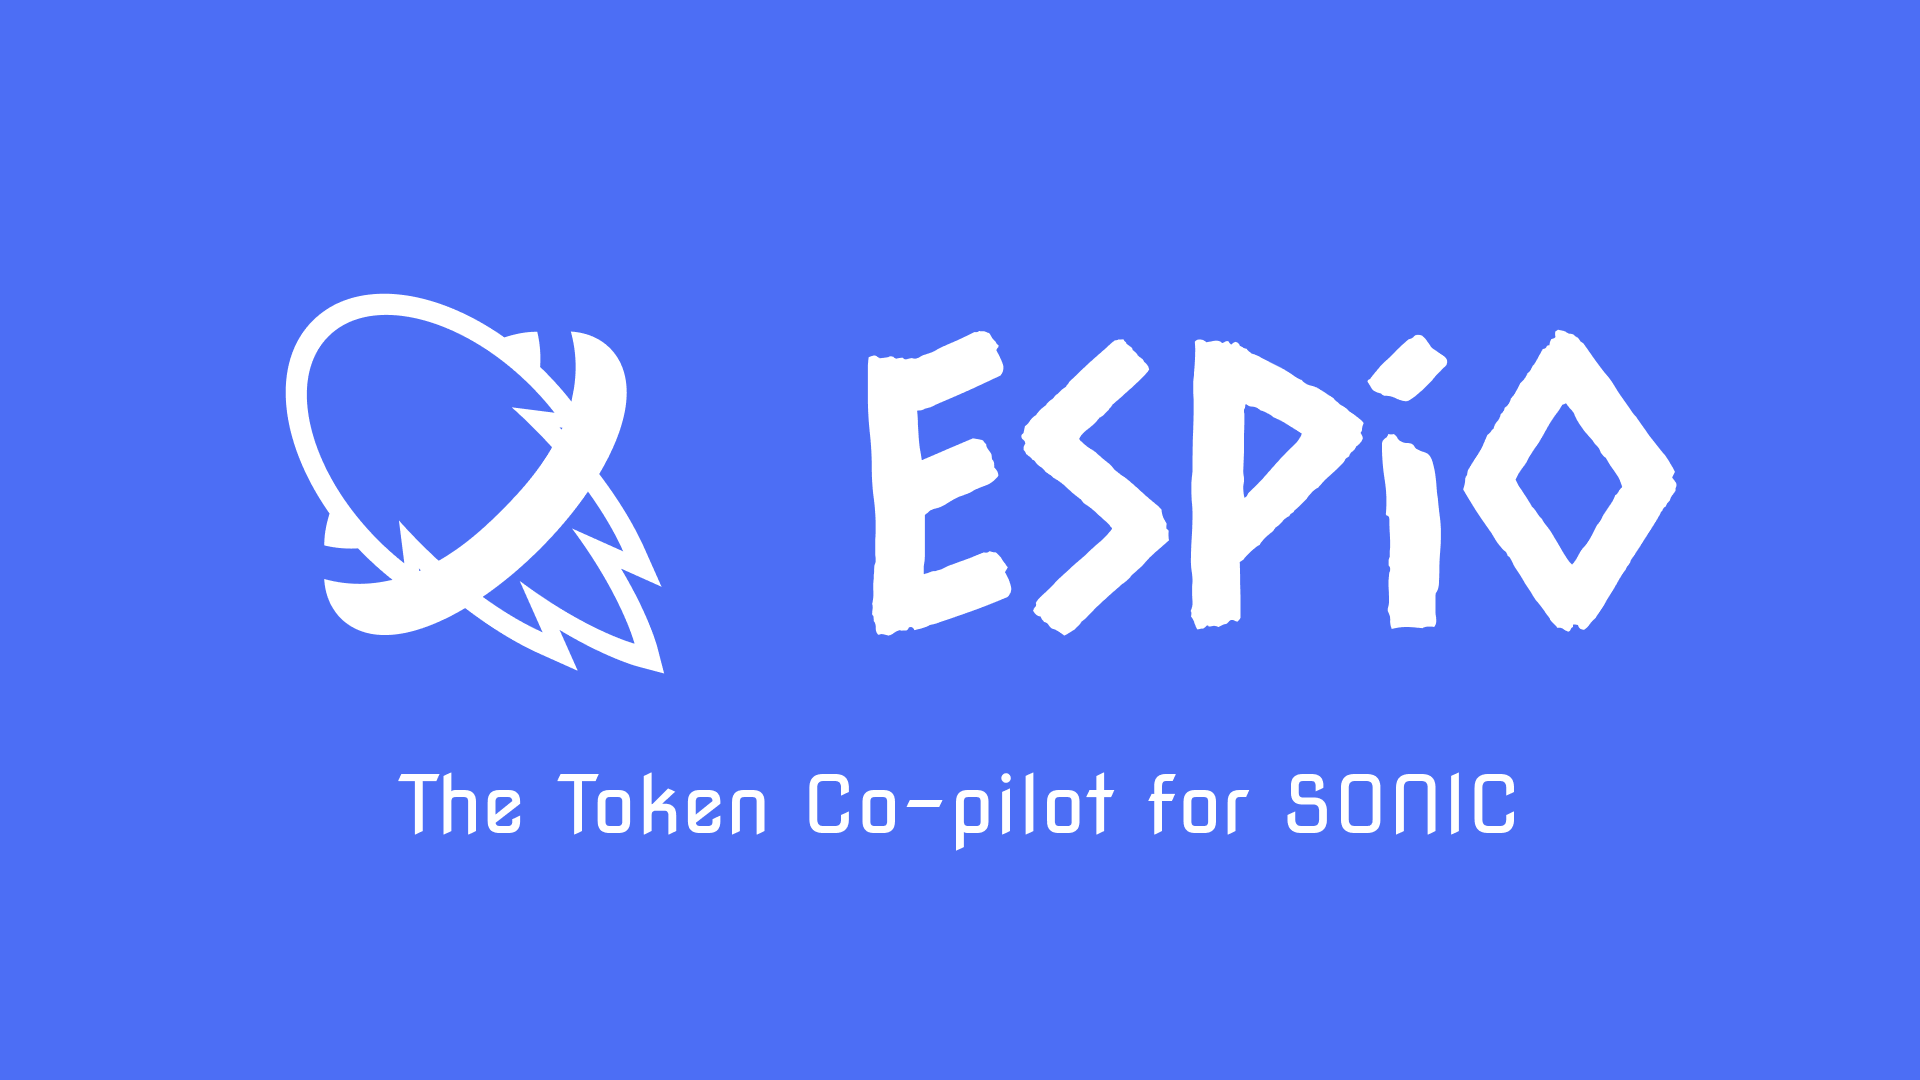
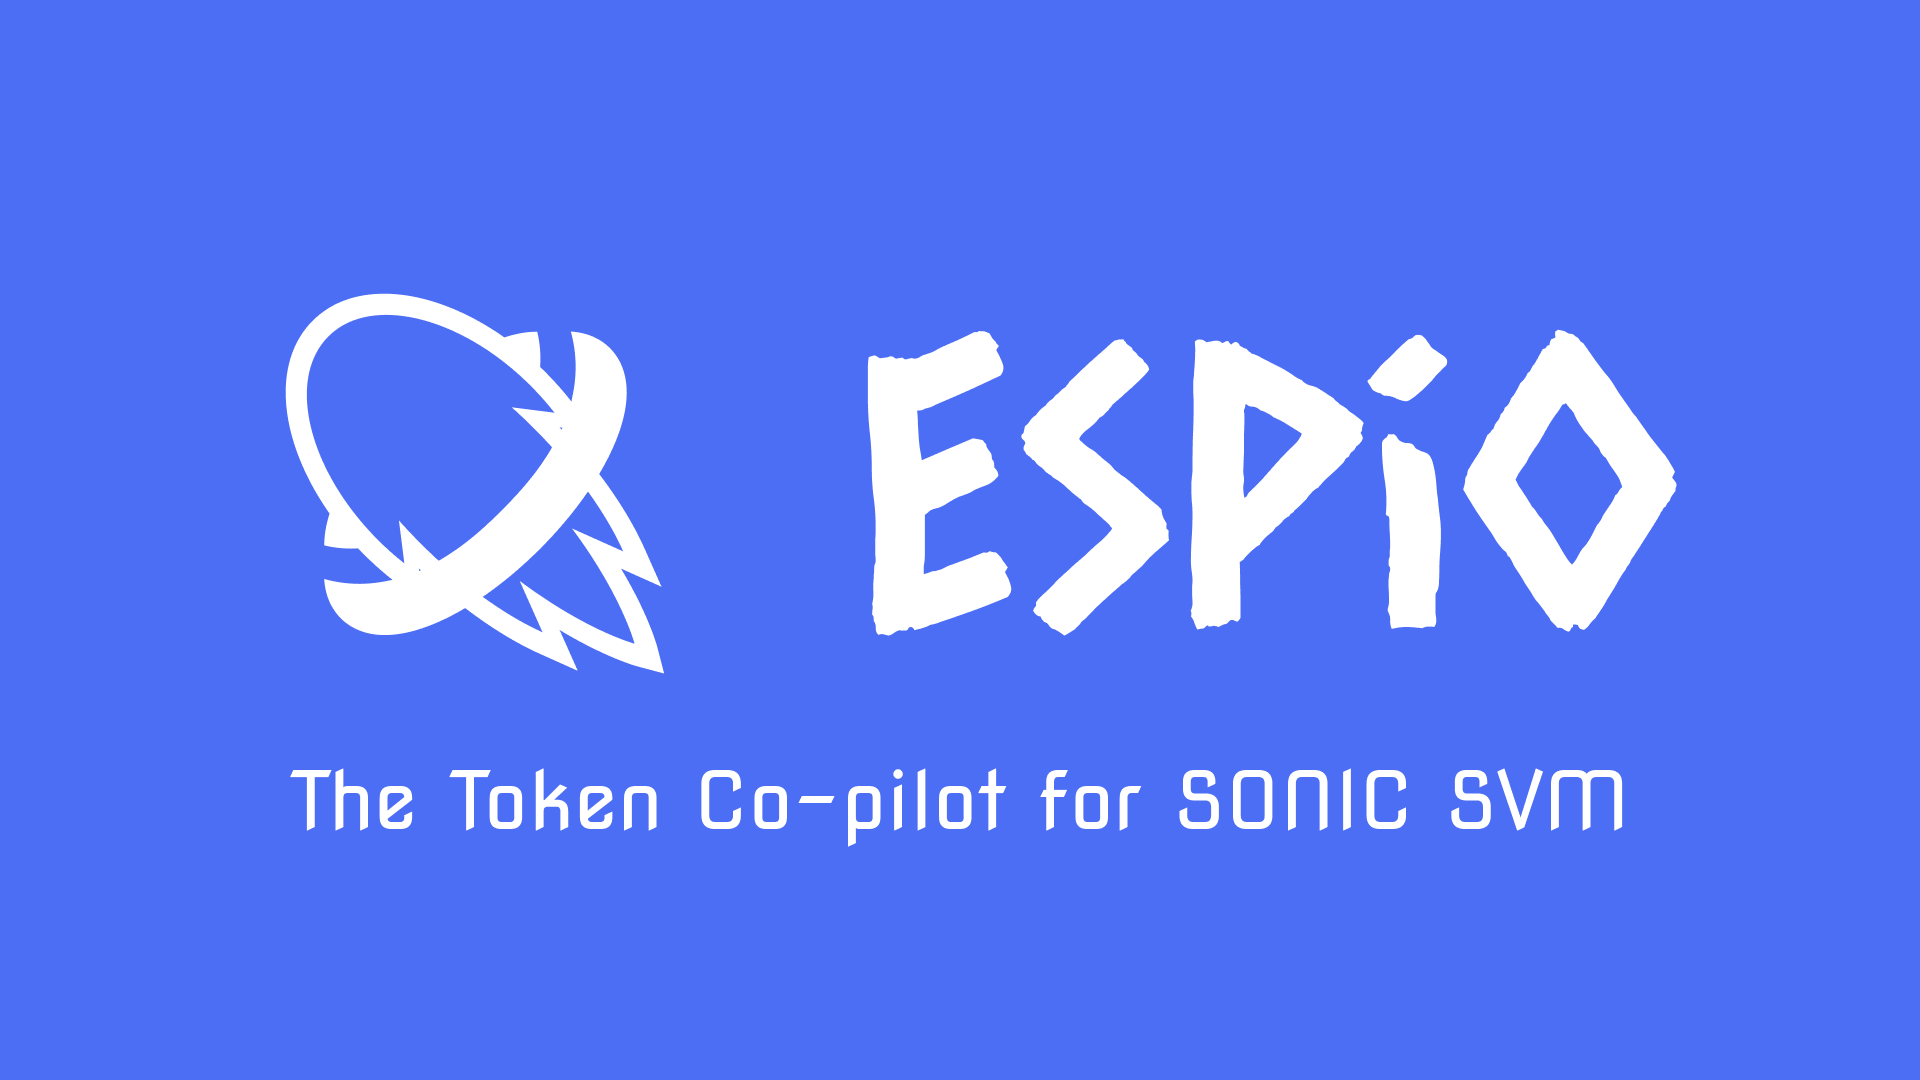
fix: aesthitics

Changed region(s): [[0.1562, 0.7028, 0.8438, 0.7944]]

diff --git a/app/layout.tsx b/app/layout.tsx
@@ -19,12 +19,12 @@ const geistMono = localFont({
 
 export const metadata: Metadata = {
   title: 'Espio',
-  description: 'The Token Copilot for Sonic',
+  description: 'The Token Copilot for Sonic SVM',
   keywords: ['solana', 'hackathon', 'ai', 'Espio'],
   authors: [{ name: 'Espio', url: 'https://www.espio.fun' }],
   openGraph: {
     title: 'Espio',
-    description: 'The Token Copilot for Sonic',
+    description: 'The Token Copilot for Sonic SVM',
     url: 'https://espio.fun',
     siteName: "Espio",
     images: [
@@ -41,7 +41,7 @@ export const metadata: Metadata = {
   twitter: {
     card: 'summary_large_image',
     title: 'Espio',
-    description: 'The Token Copilot for Sonic',
+    description: 'The Token Copilot for Sonic SVM',
     images: ['/og.png'],
   },
   metadataBase: new URL('https://espio.fun'),

diff --git a/components/layout/MobileNav.tsx b/components/layout/MobileNav.tsx
@@ -1,5 +1,5 @@
 import { Button } from "@/components/ui/button";
-import { List, Broadcast } from "@phosphor-icons/react";
+import { List, Broadcast, Bridge } from "@phosphor-icons/react";
 import { AgentLogo } from "./AgentLogo";
 import {
   DropdownMenu,
@@ -150,7 +150,7 @@ const ProfileDropdown = ({ user, logout, router }: ProfileDropdownProps) => {
         <div className="py-1">
           <DropdownMenuItem asChild>
             <Link href="https://bridge.sonic.game/" target="_blank" rel="noopener noreferrer" className="flex items-center">
-              <span className="mr-2 h-4 w-4 flex items-center justify-center">🌉</span>
+             <Bridge className="mr-2 h-4 w-4" />
               <span>Bridge</span>
             </Link>
           </DropdownMenuItem>

diff --git a/app/login/page.tsx b/app/login/page.tsx
@@ -18,9 +18,9 @@ export default function LoginPage() {
     <div className="flex flex-col items-center justify-center min-h-screen px-4 py-16 sm:py-32">
       <div className="w-full max-w-md space-y-8">
         <div className="text-center">
-          <h1 className="text-3xl font-bold">Welcome to Sonic Chat</h1>
+          <h1 className="text-3xl font-bold">Welcome to Espio</h1>
           <p className="mt-2 text-sm text-gray-500">
-            Sign in to start chatting with AI
+            Sign in to accelerate with Espio
           </p>
         </div>
 
